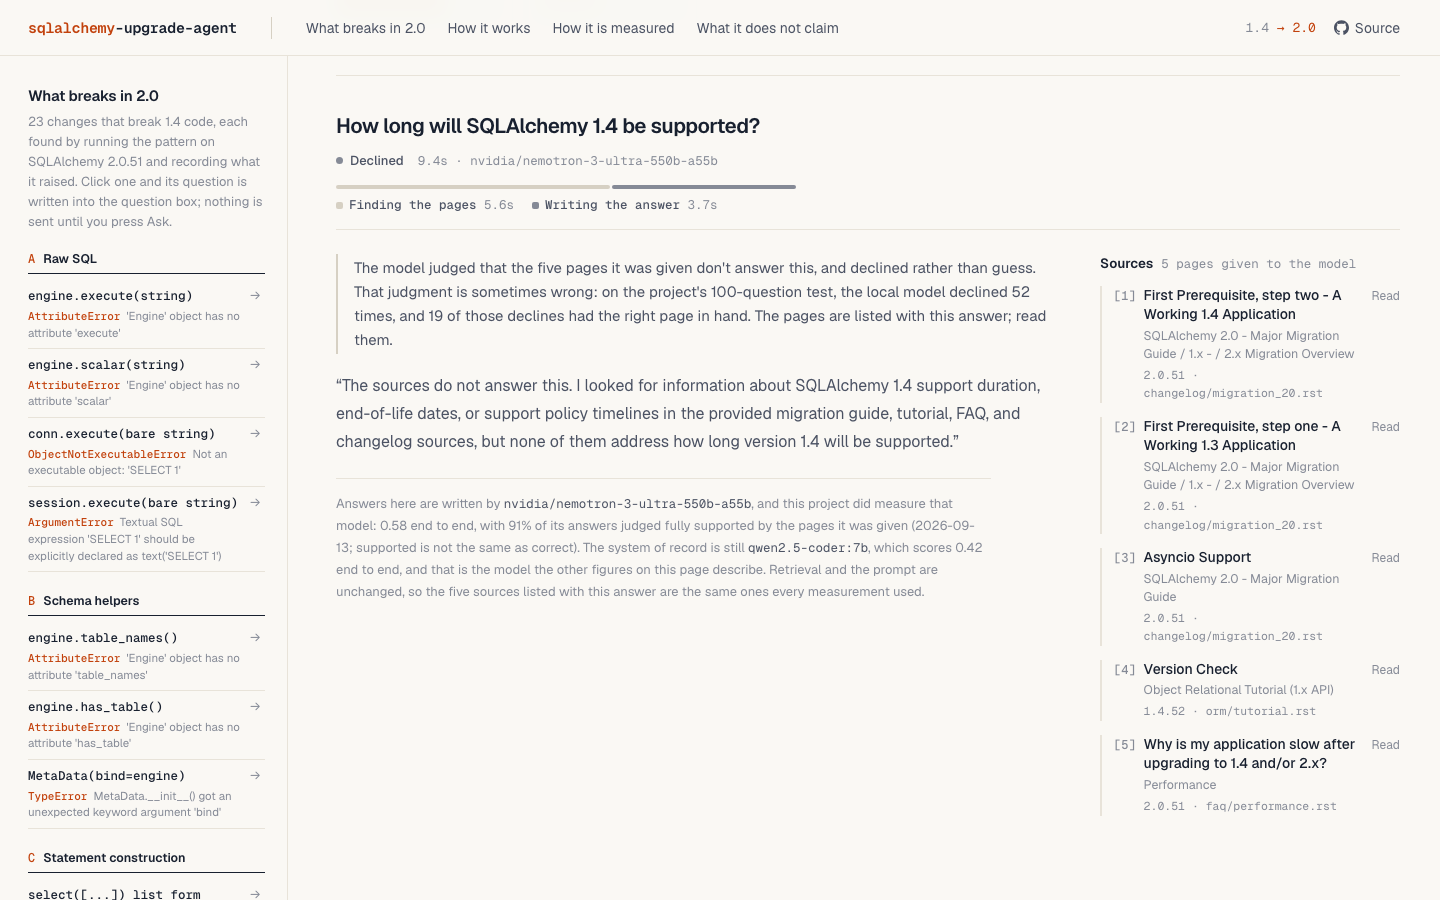
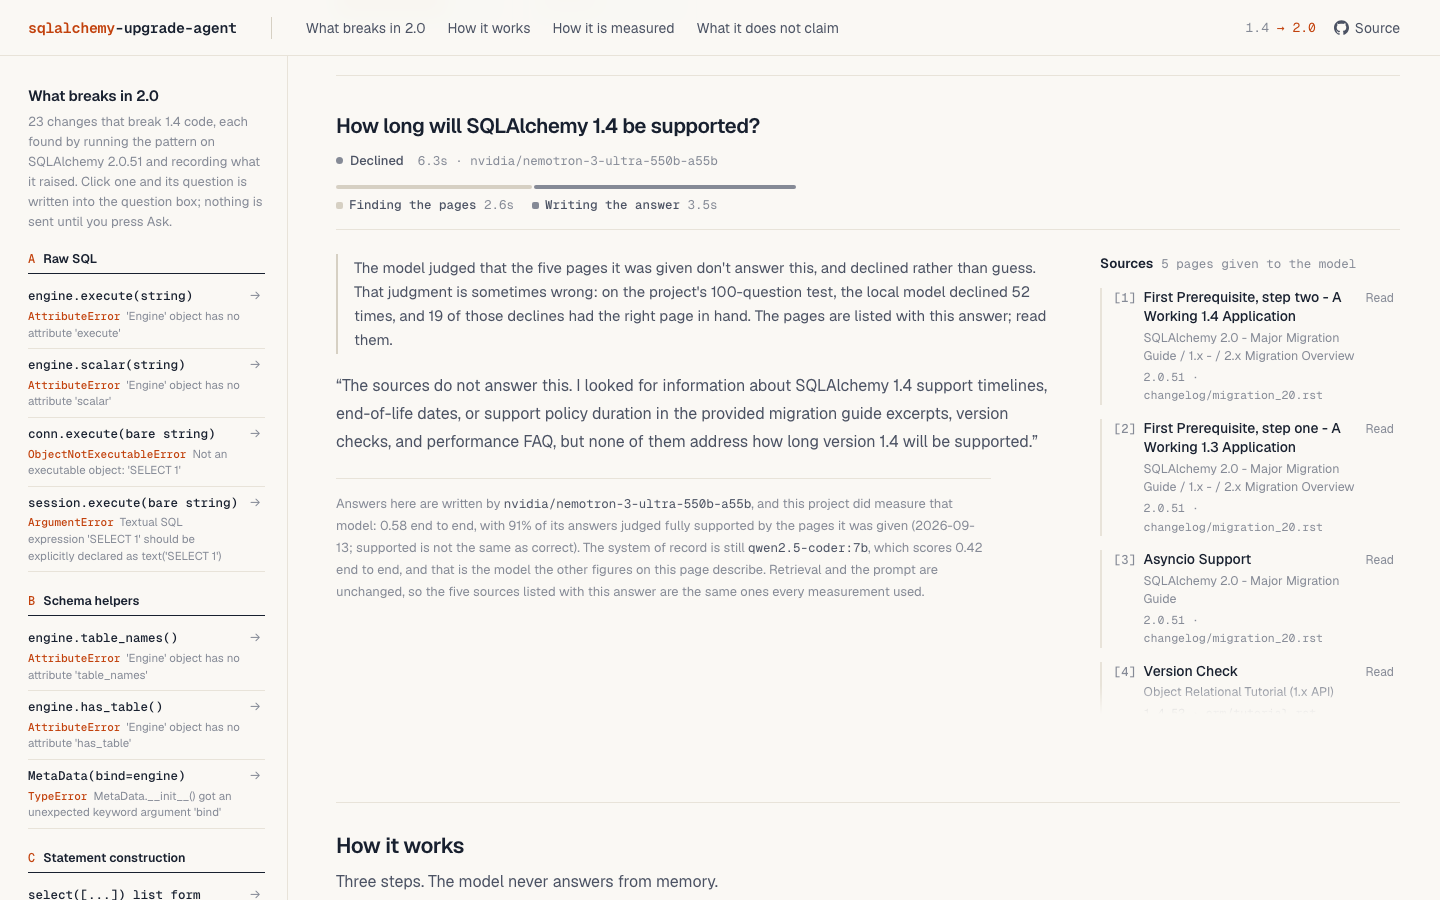
fix(page): a grouped citation like [4, 5] links each source and marks each one cited
The hosted model wrote a group in 8 of 100 answers on the model screen. The
page linked only the [n] form, so the group stayed dead text and the sources
it named were listed as not cited. The page now reads [4, 5] as [4] [5],
outside code and never for a subscript. The measured citation counts use
judge.CITATION and are unchanged.

README: answered and declined screenshots retaken from the live page with the
source list beside the answer; 663 tests.

diff --git a/rag/demo.py b/rag/demo.py
@@ -481,6 +481,18 @@ def readable(text: str) -> str:
     return SPHINX_ROLE.sub(lambda m: f"`{sphinx_name(m)}`", text)
 
 
+# `[4, 5]`: several sources in one pair of brackets. The prompt asks for `[2]`, and the
+# hosted model still wrote a group in 8 of 100 answers. The same guard as `judge.CITATION`
+# keeps subscripts like `x[3, 4]` out. This is the PAGE's reading only: the measured
+# citation counts use `judge.CITATION` unchanged.
+CITATION_GROUP = re.compile(r"(?<![\w\]\)])\[(\d+(?:\s*,\s*\d+)+)\]")
+
+
+def split_citation_groups(text: str) -> str:
+    """`[4, 5]` -> `[4] [5]`, so each number is linked and counted on its own."""
+    return CITATION_GROUP.sub(lambda m: " ".join(f"[{n.strip()}]" for n in m.group(1).split(",")), text)
+
+
 def link_citations(answer: str, n_sources: int) -> str:
     """[n] -> a link to source card n, outside code only, and only for n that exist.
 
@@ -491,7 +503,8 @@ def link_citations(answer: str, n_sources: int) -> str:
 
     def link(chunk: str) -> str:
         return judge.CITATION.sub(
-            lambda m: f"[[{m.group(1)}]](#src-{m.group(1)})" if 1 <= int(m.group(1)) <= n_sources else m.group(0), chunk
+            lambda m: f"[[{m.group(1)}]](#src-{m.group(1)})" if 1 <= int(m.group(1)) <= n_sources else m.group(0),
+            split_citation_groups(chunk),
         )
 
     # Order matters, and the first version had it wrong: a role's own backticks
@@ -533,7 +546,7 @@ def render_answer(result: dict, backend: str = "nvidia") -> str:
 def cited(result: dict) -> set[int]:
     from rag import judge
 
-    return set(judge.citations(result.get("answer") or ""))
+    return set(judge.citations(split_citation_groups(result.get("answer") or "")))
 
 
 def render_sources(result: dict) -> str:

diff --git a/tests/test_demo.py b/tests/test_demo.py
@@ -506,3 +506,15 @@ def test_the_notice_does_not_say_the_sources_are_below():
     for text in (demo.HOSTED_NOTICE, demo.hosted_notice("some/fallback-model")):
         assert "sources below" not in text
         assert "five sources listed with this answer" in text
+
+
+def test_a_grouped_citation_links_each_source_and_marks_each_one_cited():
+    """The hosted model wrote `[4, 5]` in 8 of 100 answers (the model screen, 2026-11-15).
+    The page linked only the `[n]` form, so the group stayed dead text and sources 4 and 5
+    were listed as not cited by an answer that cited them."""
+    answer = "They discuss warnings [4, 5]. Not code: `row[1, 2]`.\n```python\nm[1, 2]\n```\nAlso x[3, 4] and [2,9]."
+    out = demo.link_citations(answer, n_sources=5)
+    assert "[[4]](#src-4)" in out and "[[5]](#src-5)" in out
+    assert "`row[1, 2]`" in out and "m[1, 2]" in out and "x[3, 4]" in out  # code and subscripts untouched
+    assert "[[2]](#src-2)" in out and "#src-9" not in out  # in range linked, out of range left
+    assert demo.cited({"answer": answer}) == {2, 4, 5, 9}

diff --git a/README.md b/README.md
@@ -141,7 +141,7 @@ RAG_DENSE=memory uv run sqla-upgrade ask "why can't I call engine.execute any mo
 **Reproduce the numbers:**
 
 ```bash
-make test          # 662 tests
+make test          # 663 tests
 make lint          # ruff, ruff format, mypy
 make gate          # starts Qdrant; recall@5 58/91 = 0.64 against the committed baseline
 uv run python -m rag.judge --report    # the answer-quality report cards, from saved rows (needs Qdrant)
@@ -270,17 +270,17 @@ silently never runs.
 | [`experiments/`](experiments/) | the SQLAlchemy 1.4 app under test, written in 1.4 style on purpose, and the scripts that measured what 2.0 breaks |
 | [`space/`](space/) | the demo page and its Modal deployment |
 | [`tools/`](tools/) | checks: every `# runnable` block in the docs reproduces, answers execute on 2.0.51, the page works in a browser |
-| [`tests/`](tests/) | 662 tests |
+| [`tests/`](tests/) | 663 tests |
 | `Dockerfile`, `Dockerfile.service`, `docker-compose.yml` | the 1.4 app with Postgres; the demo page; Qdrant |
 | [`.github/workflows/`](.github/workflows/) | CI (tests, docs, 2.0 evidence, both images, lint) and the quality gate |
 
 ```
 # runnable: uv run pytest --collect-only 2>&1 | grep -E 'collected'
-662 tests collected in 12.72s
+663 tests collected in 12.72s
 ```
 
 Ten tests need local setup and skip without it: five need Qdrant running, five need the generated
-corpus. With both, 662 pass; without Qdrant, 657 pass and 5 skip; in a fresh clone, 652 pass and 10 skip.
+corpus. With both, 663 pass; without Qdrant, 658 pass and 5 skip; in a fresh clone, 653 pass and 10 skip.
 
 ## Limits
 
